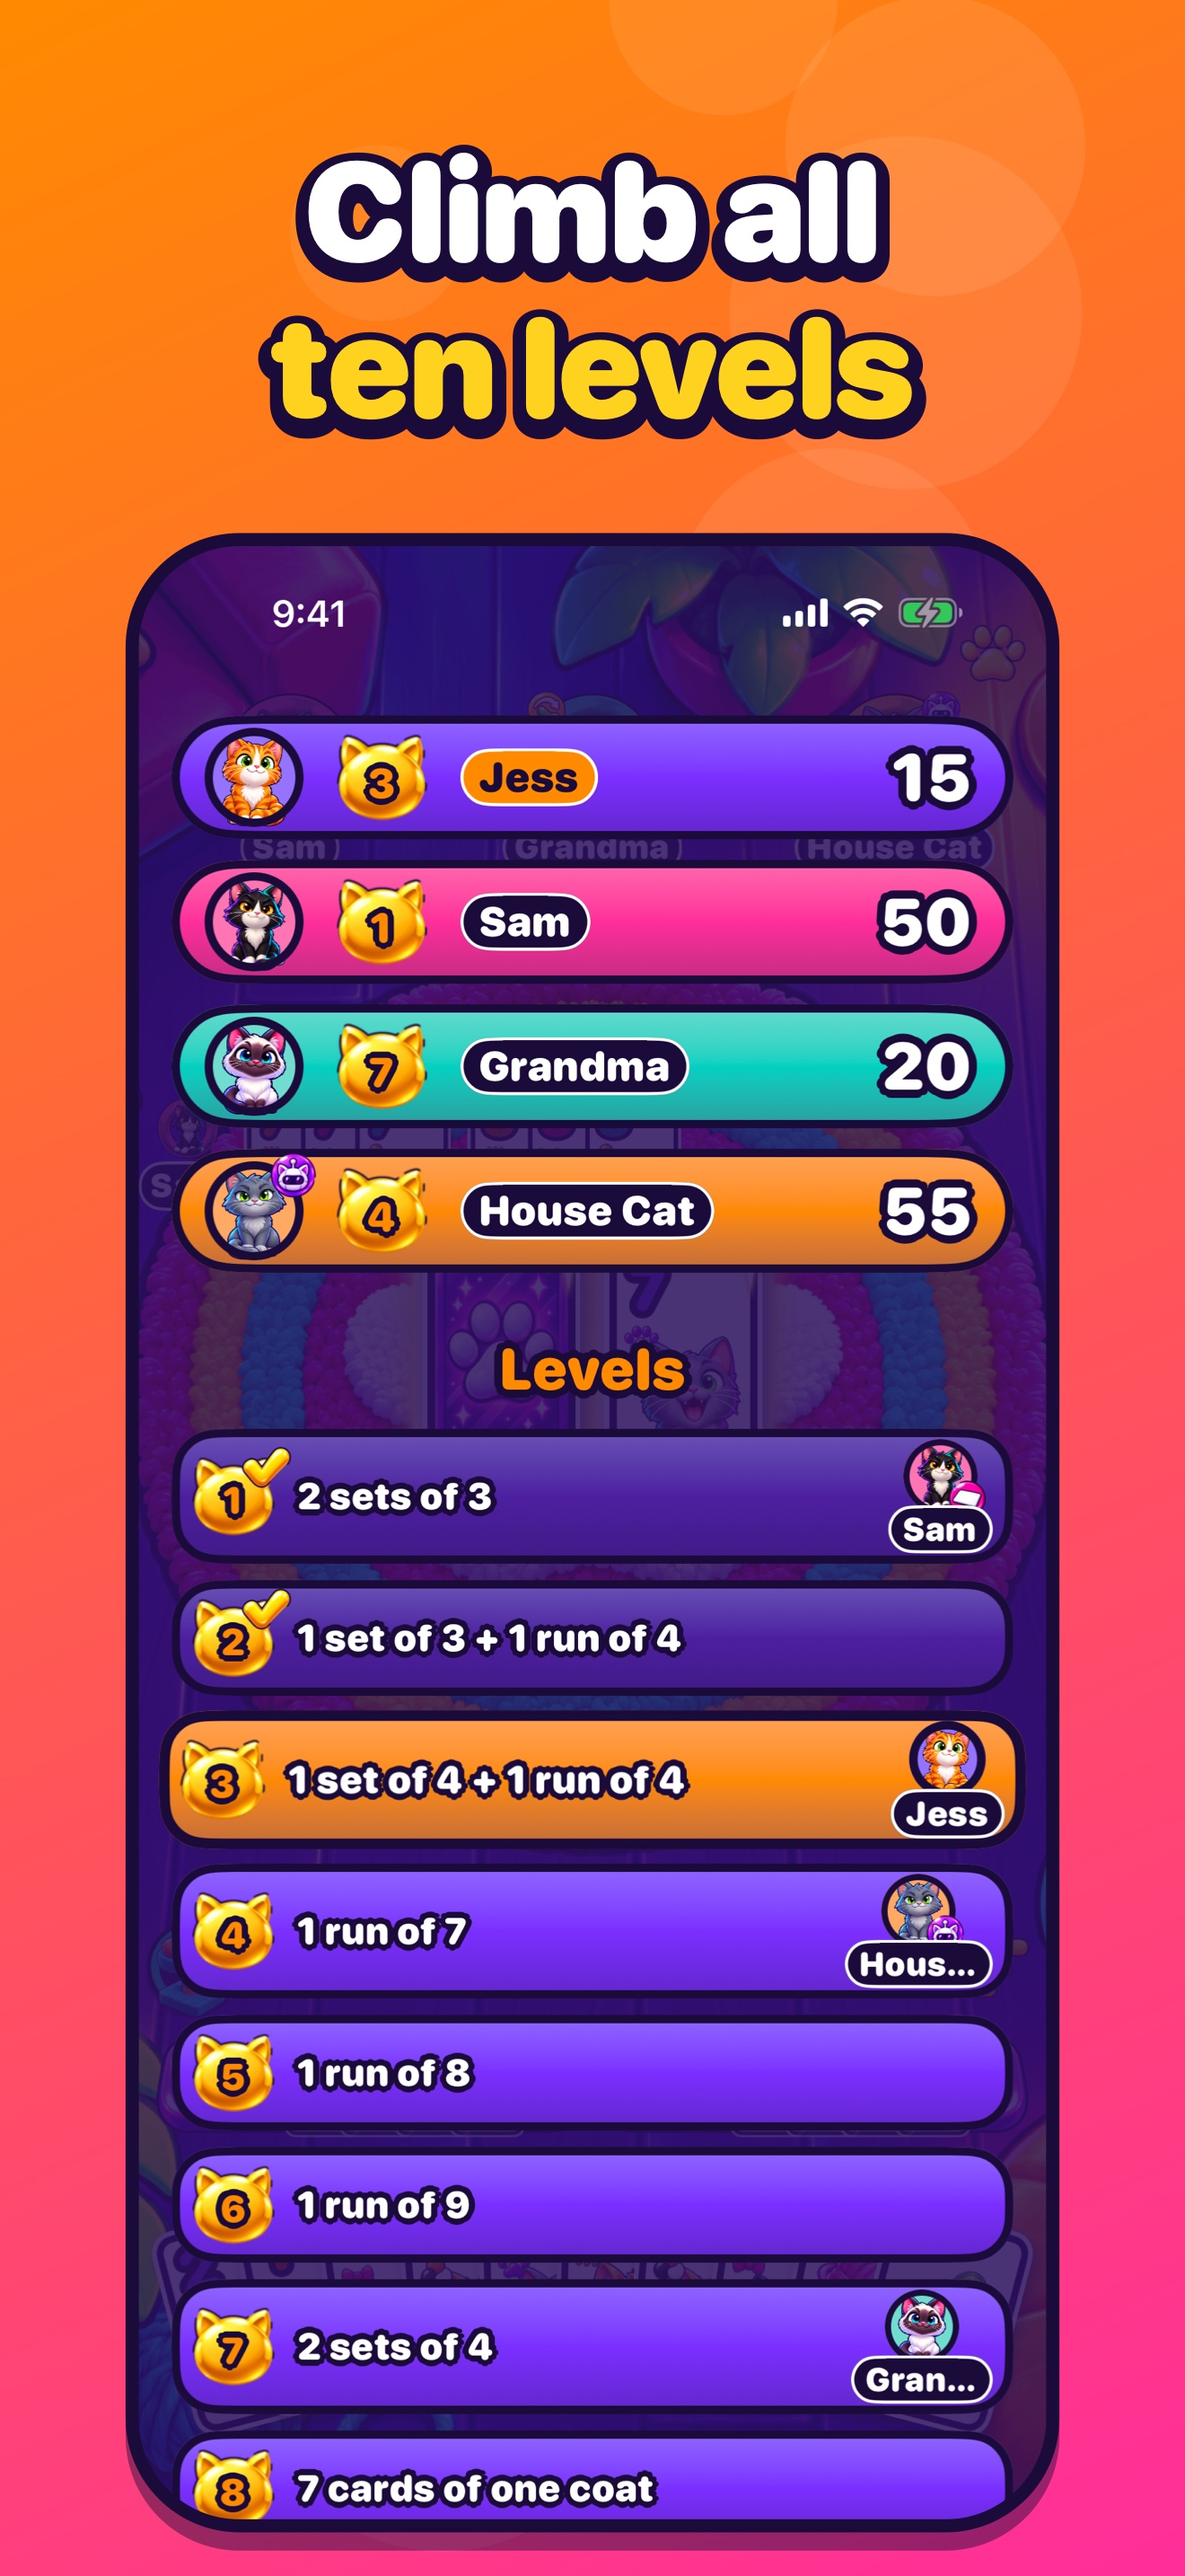
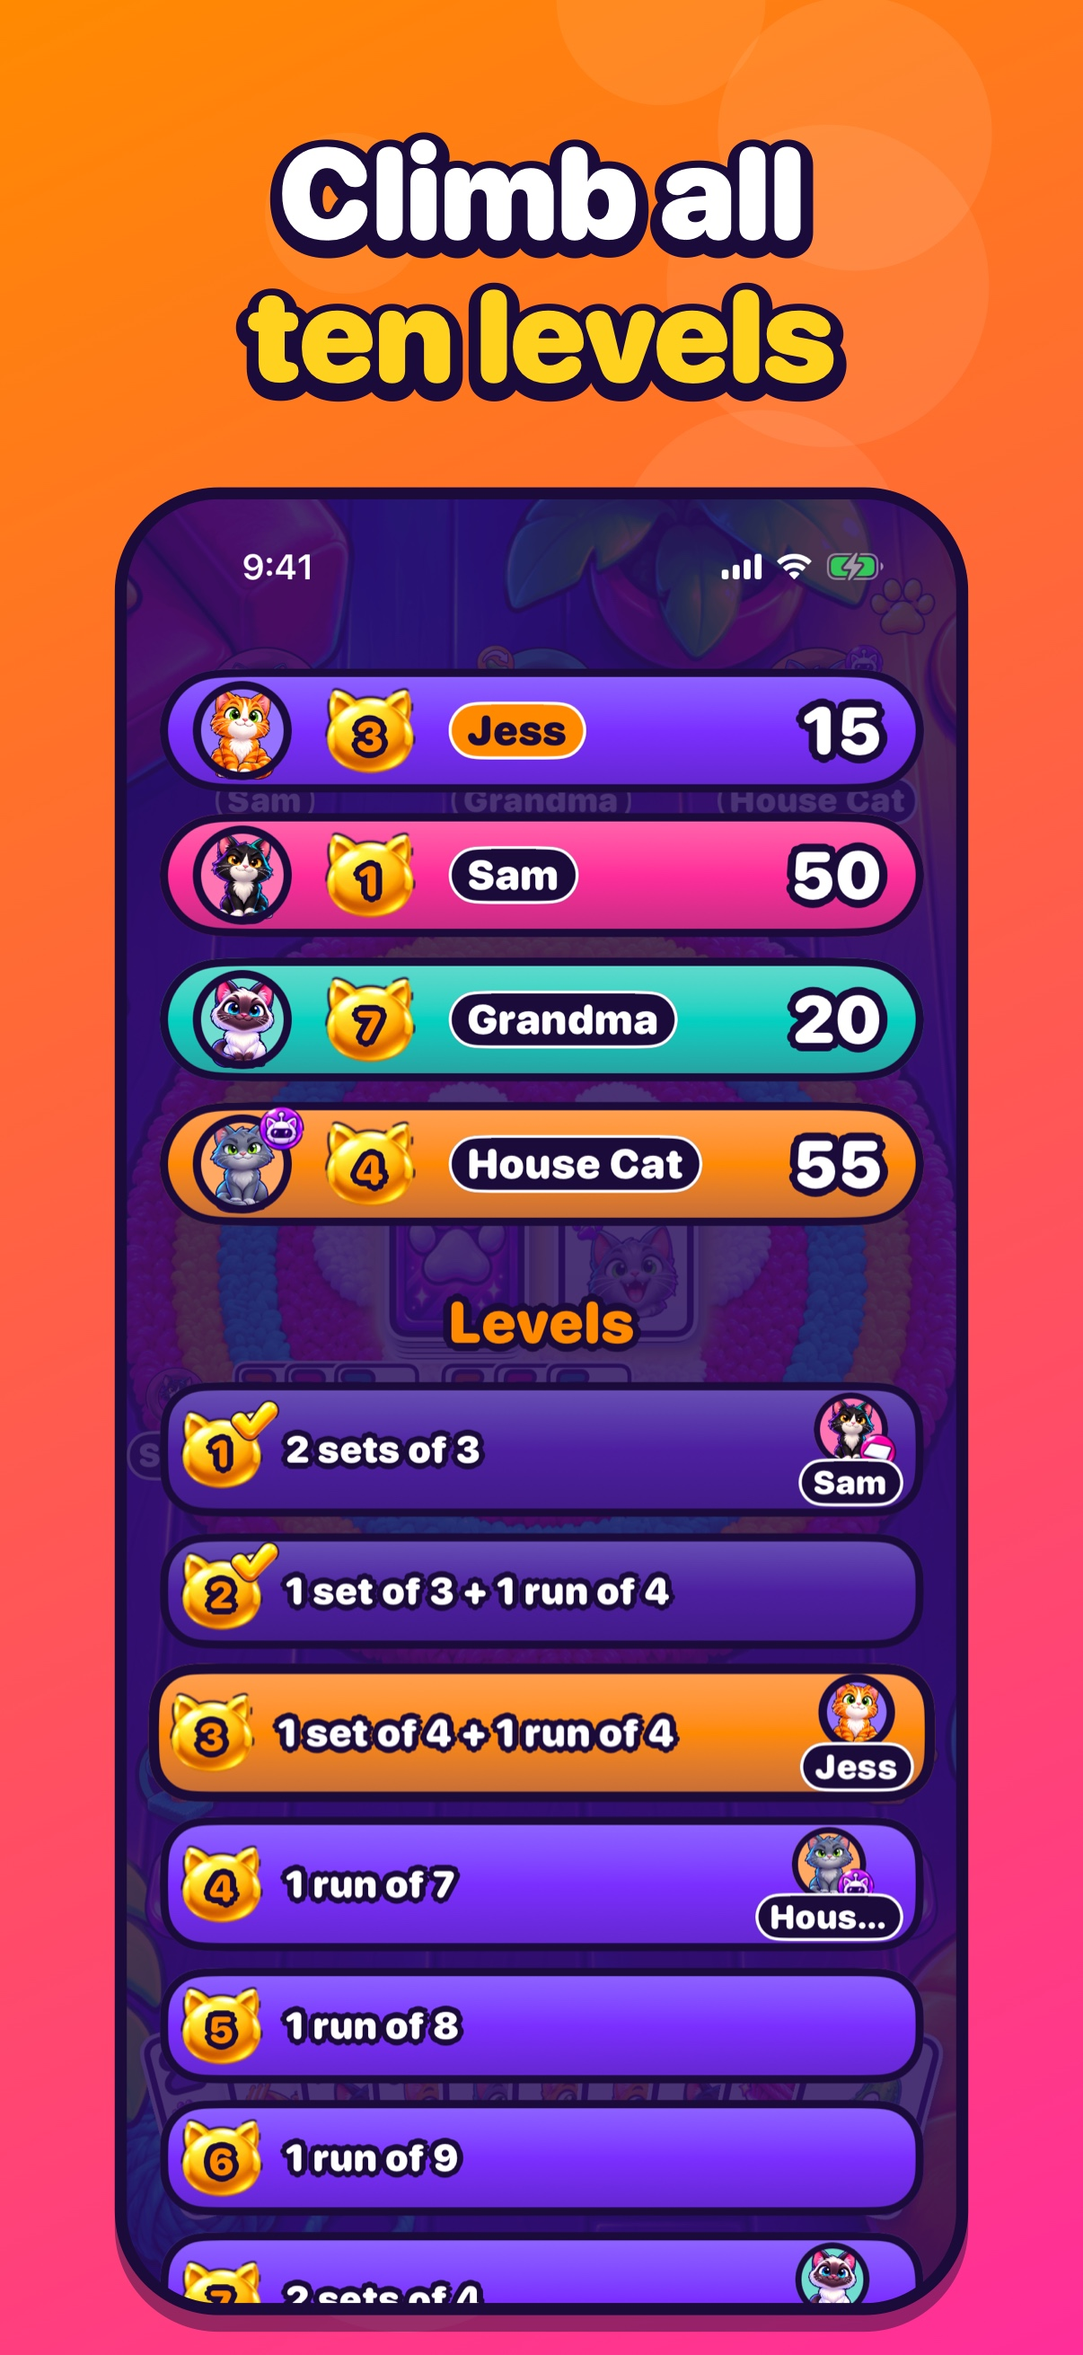
App Store media: iPhone screenshots at 1206x2622 (the required medium-display slot)
Recaptured on an iPhone 17 Pro simulator; the 6.9" size is optional and dropped.

diff --git a/apps/play-ios/AppStore/compose.swift b/apps/play-ios/AppStore/compose.swift
@@ -1,7 +1,7 @@
 // Composes the App Store screenshot set: each raw capture (AppStore/raw/<set>/<shot>.png, from
 // capture.sh) on a branded background under its caption (captions.json), at the capture's own
-// pixel size, so the output is exactly a size App Store Connect accepts (1320x2868 for the 6.9"
-// iPhone set, 2064x2752 for the 13" iPad set). JPEG, no alpha, under 1.5 MB.
+// pixel size, so the output is exactly a size App Store Connect accepts (1206x2622 for the required
+// medium-display iPhone set, 2064x2752 for the 13" iPad set). JPEG, no alpha, under 1.5 MB.
 //   swift AppStore/compose.swift            # from apps/play-ios; writes AppStore/screenshots/
 // Type and palette are the app's: SF Rounded Black with the ink outline (OutlinedText), and the
 // Loud Toy colors (Palette.swift).

diff --git a/apps/play-ios/AppStore/README.md b/apps/play-ios/AppStore/README.md
@@ -6,9 +6,9 @@ messages, no server); nothing is drawn by hand except the caption and the backgr
 
 | File | What |
 | --- | --- |
-| `screenshots/iphone-1.jpg` … `6` | 1320x2868, the 6.9" iPhone set |
+| `screenshots/iphone-1.jpg` … `6` | 1206x2622, the required iPhone set (Dynamic Island, medium display; iPhone 17 Pro) |
 | `screenshots/ipad-1.jpg` … `6` | 2064x2752, the 13" iPad set |
-| `previews/iphone-preview.mp4` | 886x1920, 25.4 s |
+| `previews/iphone-preview.mp4` | 886x1920, 25.4 s (recorded on an iPhone 17 Pro Max, cut to the size the iPhone slot takes) |
 | `previews/ipad-preview.mp4` | 1200x1600, 25.4 s |
 | `captions.json`, `captions.md` | The captions and what backs each one |
 
@@ -22,7 +22,7 @@ stereo AAC 256 kbps, 15 to 30 seconds).
 scripts/bootstrap.sh
 xcodebuild -project Pounce.xcodeproj -scheme Pounce -destination "platform=iOS Simulator,id=<udid>" build
 xcrun simctl install <udid> <DerivedData>/Build/Products/Debug-iphonesimulator/Pounce.app
-AppStore/capture.sh iphone <iPhone 17 Pro Max udid>     # raw/iphone/*.png
+AppStore/capture.sh iphone <iPhone 17 Pro udid>   # raw/iphone/*.png
 AppStore/capture.sh ipad <iPad Pro 13-inch (M5) udid>   # raw/ipad/*.png
 swift AppStore/compose.swift                            # screenshots/*.jpg
 AppStore/preview.sh iphone <udid>                       # previews/iphone-preview.mp4
